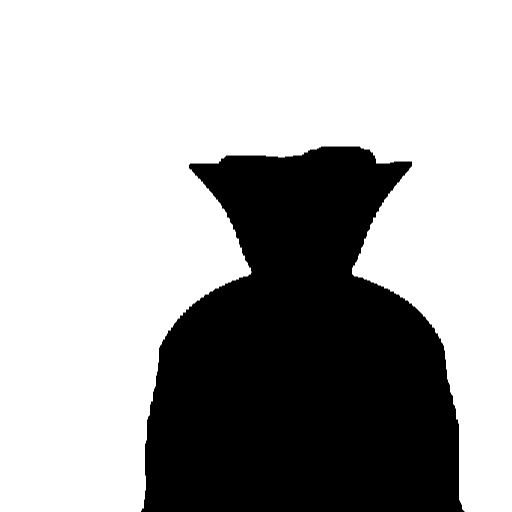
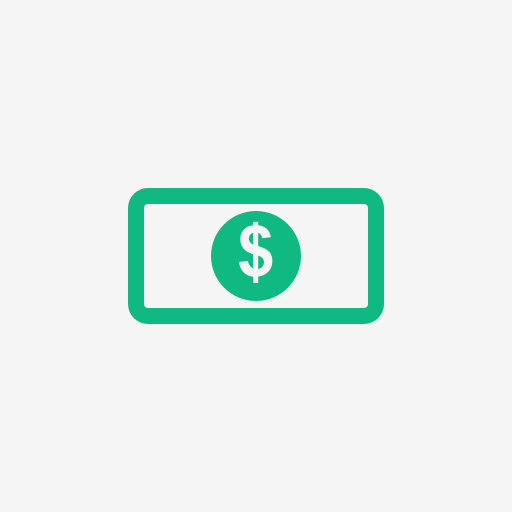
feat: ícono minimalista y "Recordarme" en login
- Cambiar ícono de app a diseño minimalista con símbolo $ verde
- Agregar checkbox "Recordarme en este dispositivo" en login form
- Guardar/cargar email en localStorage si está marcado
- Mantener email pre-llenado la próxima vez que visita

diff --git a/components/LoginForm.tsx b/components/LoginForm.tsx
@@ -1,6 +1,6 @@
 "use client";
 
-import { useState } from "react";
+import { useState, useEffect } from "react";
 import { supabase } from "@/lib/supabase";
 
 export default function LoginForm() {
@@ -8,11 +8,27 @@ export default function LoginForm() {
   const [password, setPassword] = useState("");
   const [error, setError] = useState("");
   const [loading, setLoading] = useState(false);
+  const [recordarme, setRecordarme] = useState(false);
+
+  useEffect(() => {
+    const emailGuardado = localStorage.getItem("email_recordado");
+    if (emailGuardado) {
+      setEmail(emailGuardado);
+      setRecordarme(true);
+    }
+  }, []);
 
   async function onSubmit(e: React.FormEvent) {
     e.preventDefault();
     setError("");
     setLoading(true);
+
+    if (recordarme) {
+      localStorage.setItem("email_recordado", email);
+    } else {
+      localStorage.removeItem("email_recordado");
+    }
+
     const { error } = await supabase.auth.signInWithPassword({ email, password });
     setLoading(false);
     if (error) setError(error.message === "Invalid login credentials" ? "Email o contraseña incorrectos" : error.message);
@@ -48,6 +64,17 @@ export default function LoginForm() {
               placeholder="••••••••"
               autoComplete="current-password"
             />
+          </div>
+          <div className="mb-3.5">
+            <label className="flex items-center gap-2 cursor-pointer">
+              <input
+                type="checkbox"
+                checked={recordarme}
+                onChange={(e) => setRecordarme(e.target.checked)}
+                className="w-4 h-4"
+              />
+              <span className="text-[13px] text-[var(--ink-soft)]">Recordarme en este dispositivo</span>
+            </label>
           </div>
           {error && <p className="text-[13px] font-medium text-[var(--red)] mb-3.5">{error}</p>}
           <button
